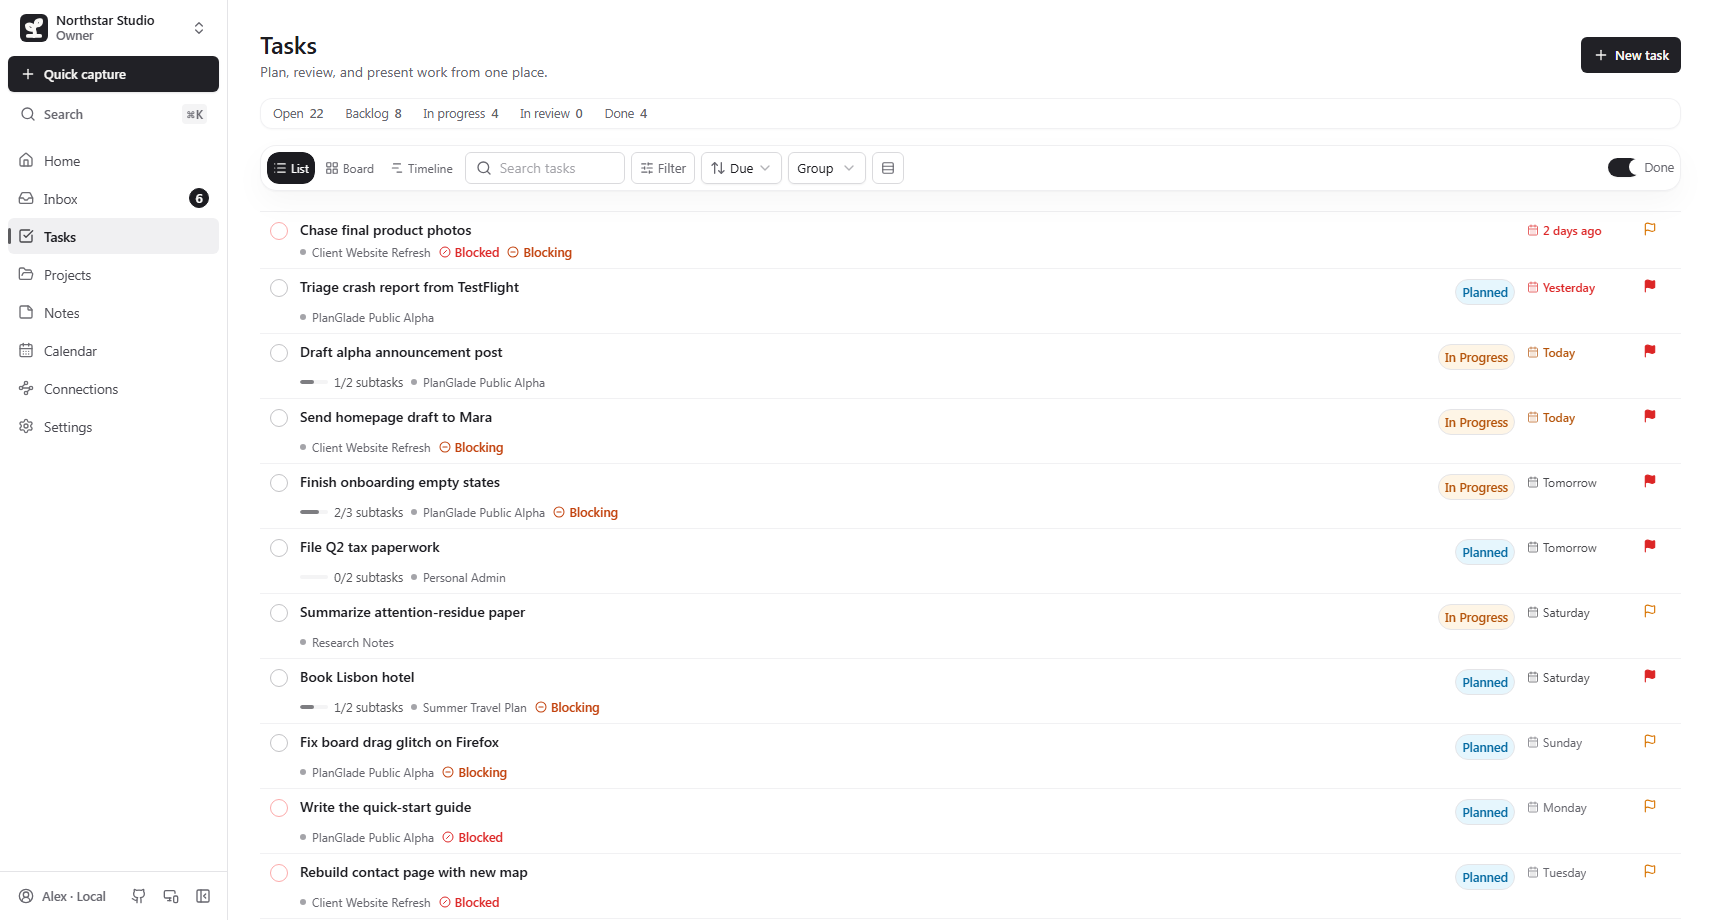
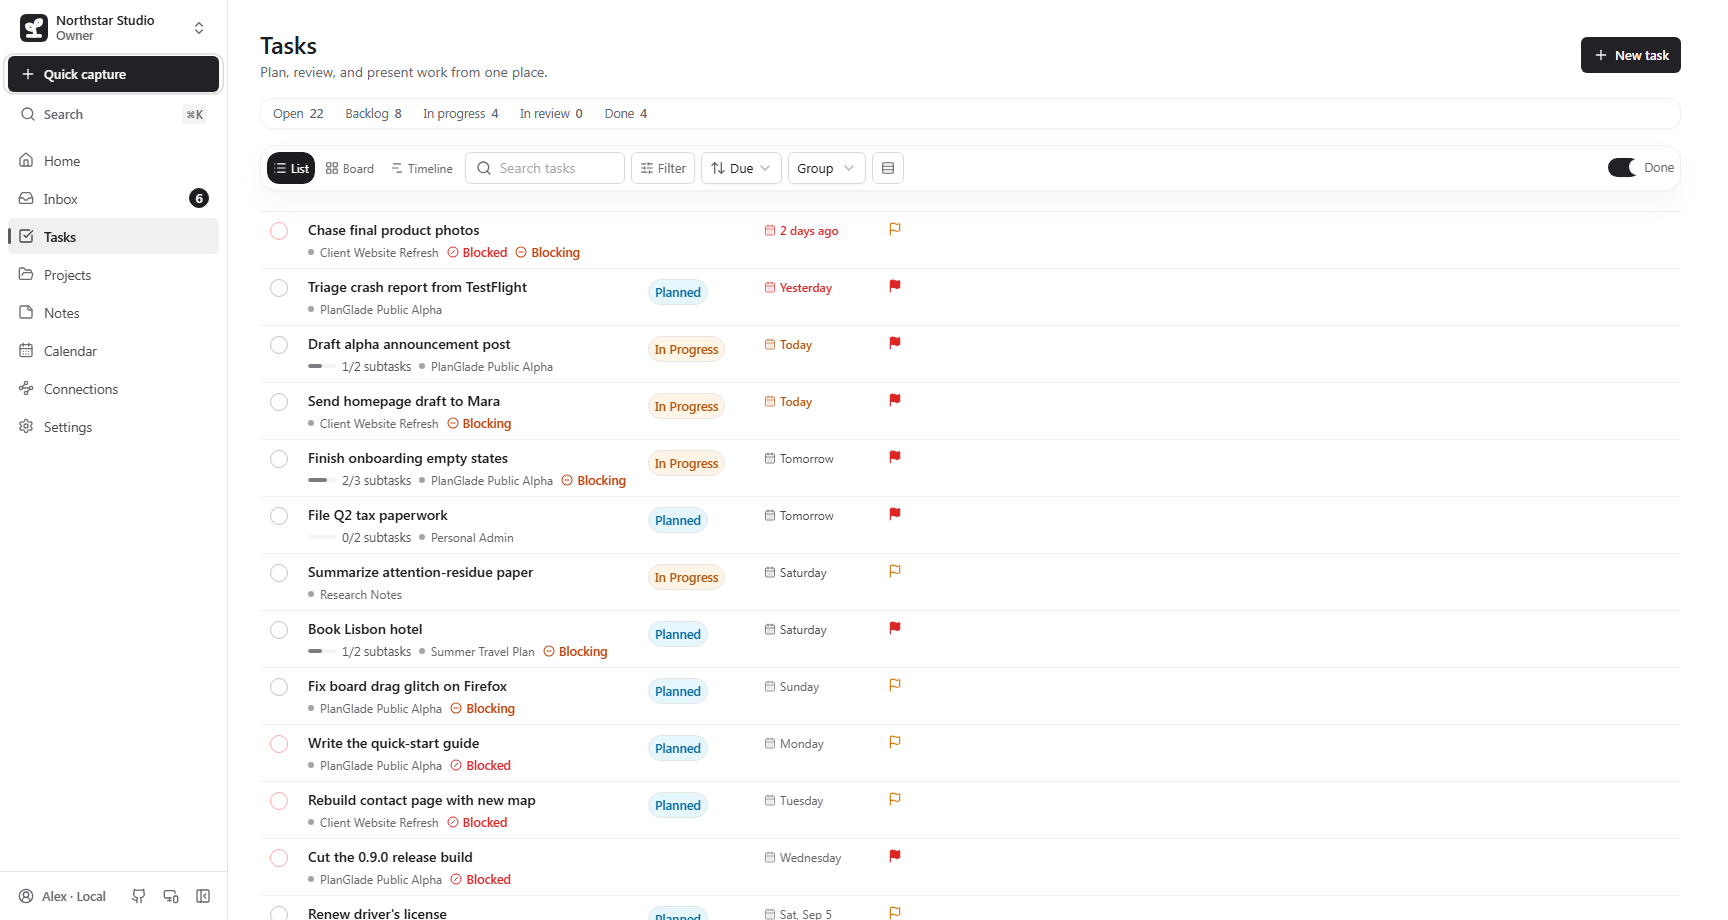
fix(ui): calibrate task list metadata columns (#95)

diff --git a/frontend/src/components/TaskRow.tsx b/frontend/src/components/TaskRow.tsx
@@ -1,3 +1,4 @@
+import type { CSSProperties } from 'react'
 import { useNavigate } from 'react-router'
 import { cn } from '@/lib/utils'
 import type { Task } from '@/types'
@@ -45,14 +46,25 @@ export function TaskRow({
   const hasMobileStatus = listMobileLayout && showStatus && field('status') && !done && task.status !== 'blocked'
   const hasMobileDue = field('dueDate') && !!task.dueDate
   const hasMobilePriority = field('priority') && task.priority !== 'none'
+  const listDesktopColumns = [
+    '18px',
+    'minmax(280px, min(20rem, 45vw))',
+    field('status') ? '96px' : null,
+    field('dueDate') ? '104px' : null,
+    field('priority') ? '28px' : null,
+  ].filter(Boolean).join(' ')
 
   return (
     <ContextMenu>
       <ContextMenuTrigger asChild>
         <div
           data-task-id={task.id}
+          style={listMobileLayout ? { '--task-list-columns': listDesktopColumns } as CSSProperties : undefined}
           className={cn(
-            'group relative grid grid-cols-[44px_minmax(0,1fr)] items-start gap-x-2 rounded-md px-1.5 lg:grid-cols-[18px_minmax(0,1fr)_104px_28px] lg:gap-x-3 lg:px-2.5',
+            'group relative grid grid-cols-[44px_minmax(0,1fr)] items-start gap-x-2 rounded-md px-1.5 lg:gap-x-3 lg:px-2.5',
+            listMobileLayout
+              ? 'lg:justify-start lg:gap-x-5 lg:[grid-template-columns:var(--task-list-columns)]'
+              : 'lg:grid-cols-[18px_minmax(0,1fr)_104px_28px]',
             compact ? 'py-2.5 lg:py-1' : 'py-2.5 lg:py-2',
             className,
           )}
@@ -67,12 +79,12 @@ export function TaskRow({
             )}
           />
           <span className="relative z-10 flex h-11 items-center justify-center [&>button]:size-11 lg:h-auto lg:justify-start lg:pt-0.5 lg:[&>button]:size-[18px]"><TaskCheckbox checked={done} onToggle={() => ws.toggleTask(task.id)} blocked={blocked && !done} /></span>
-          <div className="relative z-10 min-w-0 pointer-events-none">
+          <div className="relative z-10 min-w-0 pointer-events-none" data-task-field={listMobileLayout ? 'identity' : undefined}>
             <div className="flex items-start gap-2">
               <p className={cn('pg-item-title min-w-0 flex-1', done && 'line-through text-muted-foreground font-normal')}>
-                {task.title}
+                <span data-task-field={listMobileLayout ? 'title' : undefined}>{task.title}</span>
               </p>
-              {showStatus && field('status') && !done && task.status !== 'blocked' && <StatusBadge status={task.status} className={cn('mt-0.5 shrink-0', listMobileLayout && 'hidden lg:inline-flex')} />}
+              {showStatus && field('status') && !listMobileLayout && !done && task.status !== 'blocked' && <StatusBadge status={task.status} className="mt-0.5 shrink-0" />}
             </div>
             {(subs.length > 0 || showProject || (blocked && !done) || blocking || hasMobileStatus || hasMobileDue || hasMobilePriority) && (
               <div className="mt-1 flex min-w-0 items-center gap-2 overflow-hidden text-[12.5px] leading-4 text-muted-foreground lg:flex-wrap">
@@ -93,12 +105,21 @@ export function TaskRow({
               </div>
             )}
           </div>
-          <div className="relative z-10 hidden items-center overflow-hidden lg:col-auto lg:flex lg:pt-0.5">
-            {field('dueDate') && <DueBadge date={task.dueDate} done={done} className="justify-start w-full" />}
-          </div>
-          <div className="relative z-10 hidden items-center justify-start lg:col-auto lg:flex lg:pt-0.5">
-            {field('priority') && <PriorityBadge priority={task.priority} className={mutedPriority ? 'text-muted-foreground' : undefined} />}
-          </div>
+          {listMobileLayout && field('status') && (
+            <div className="pointer-events-none relative z-10 hidden items-center lg:flex lg:pt-0.5" data-task-field="status">
+              {showStatus && !done && task.status !== 'blocked' && <StatusBadge status={task.status} />}
+            </div>
+          )}
+          {field('dueDate') && (
+            <div className="pointer-events-none relative z-10 hidden items-center overflow-hidden lg:col-auto lg:flex lg:pt-0.5" data-task-field={listMobileLayout ? 'due-date' : undefined}>
+              <DueBadge date={task.dueDate} done={done} className="w-full justify-start" />
+            </div>
+          )}
+          {field('priority') && (
+            <div className="pointer-events-none relative z-10 hidden items-center justify-start lg:col-auto lg:flex lg:pt-0.5" data-task-field={listMobileLayout ? 'priority' : undefined}>
+              <PriorityBadge priority={task.priority} className={mutedPriority ? 'text-muted-foreground' : undefined} />
+            </div>
+          )}
         </div>
       </ContextMenuTrigger>
       {ws.canMutateTasks && <ContextMenuContent className="w-52">

diff --git a/frontend/e2e/reference.pw.ts b/frontend/e2e/reference.pw.ts
@@ -8,6 +8,12 @@ async function expectTouchTarget(locator: Locator) {
   expect(box!.height).toBeGreaterThanOrEqual(44)
 }
 
+async function visibleBox(locator: Locator) {
+  const box = await locator.boundingBox()
+  expect(box).not.toBeNull()
+  return box!
+}
+
 test('reference mode stays independent from the backend', async ({ page }) => {
   const backendRequests: string[] = []
   const consoleErrors: string[] = []
@@ -71,12 +77,35 @@ test('desktop task rows render metadata once', async ({ page }) => {
   await page.goto('/tasks')
   await page.getByRole('tab', { name: 'List' }).click()
   await page.getByRole('textbox', { name: 'Search tasks' }).fill("Renew driver's license")
+  await expect(page.locator('[data-task-id]')).toHaveCount(1)
 
-  const row = page.getByText("Renew driver's license", { exact: true }).locator('xpath=../../..')
+  const row = page.getByText("Renew driver's license", { exact: true }).locator('xpath=ancestor::*[@data-task-id][1]')
   await expect(row).toBeVisible()
   await expect(row.getByText('Planned', { exact: true }).filter({ visible: true })).toHaveCount(1)
   await expect(row.locator('svg.lucide-calendar-days').filter({ visible: true })).toHaveCount(1)
   await expect(row.getByText('Medium priority', { exact: true }).filter({ visible: true })).toHaveCount(1)
+
+  const identityCell = await visibleBox(row.locator('[data-task-field="identity"]'))
+  const titleText = await visibleBox(row.locator('[data-task-field="title"]'))
+  const statusCell = await visibleBox(row.locator('[data-task-field="status"]'))
+  const dueCell = await visibleBox(row.locator('[data-task-field="due-date"]'))
+  const priorityCell = await visibleBox(row.locator('[data-task-field="priority"]'))
+  const desktopCells = [identityCell, statusCell, dueCell, priorityCell]
+
+  expect(identityCell.width).toBeLessThanOrEqual(320)
+  expect(statusCell.x - (titleText.x + titleText.width)).toBeLessThanOrEqual(240)
+  for (let index = 1; index < desktopCells.length; index += 1) {
+    const previous = desktopCells[index - 1]
+    const current = desktopCells[index]
+    expect(current.x - (previous.x + previous.width)).toBeGreaterThanOrEqual(0)
+    expect(current.x - (previous.x + previous.width)).toBeLessThanOrEqual(24)
+  }
+  expect(priorityCell.x + priorityCell.width - identityCell.x).toBeLessThanOrEqual(700)
+
+  await page.mouse.click(statusCell.x + statusCell.width / 2, statusCell.y + statusCell.height / 2)
+  await expect(page.getByLabel('Task details')).toBeVisible()
+  await page.keyboard.press('Escape')
+  await expect(page.getByLabel('Task details')).toBeHidden()
 
   await page.setViewportSize({ width: 390, height: 844 })
   await page.reload()

diff --git a/docs/TASK_LEDGER.md b/docs/TASK_LEDGER.md
@@ -18,6 +18,13 @@
 
 ## Completed tasks
 
+### UI-002 — Calibrated task-list metadata columns
+
+- Status: **PASS**
+- Requested: 2026-08-27
+- Scope: reduce desktop eye travel by keeping task identity, status, due date, and priority in adjacent aligned columns while preserving the existing mobile metadata layout and interactions.
+- Evidence: `npm run test:e2e:reference --prefix frontend` passed all 3 reference-browser tests. The real Tasks page rendered without horizontal overflow at 1728×920, 1024×768, and 390×844; its desktop identity-to-status text gap measured 121px, adjacent metadata columns measured 20px apart, and the complete scan band measured 608px. Clicking the status area opened task details. Three retained local screenshots are under `artifacts/verification/UI-002/`; the 1728×920 capture replaced the published Tasks image. Calendar and Connections were not changed.
+
 ### DOC-002 — README Tasks screenshot framing
 
 - Status: **PASS**

diff --git a/CHANGELOG.md b/CHANGELOG.md
@@ -7,6 +7,12 @@ releases are documented below.
 
 ## Unreleased
 
+### Changed
+
+- Calibrated the desktop Tasks list so task identity, status, due date, and
+  priority remain in a compact, aligned scan band instead of spanning the
+  entire viewport.
+
 ## [0.2.0] - 2026-08-09
 
 First public self-host preview.
